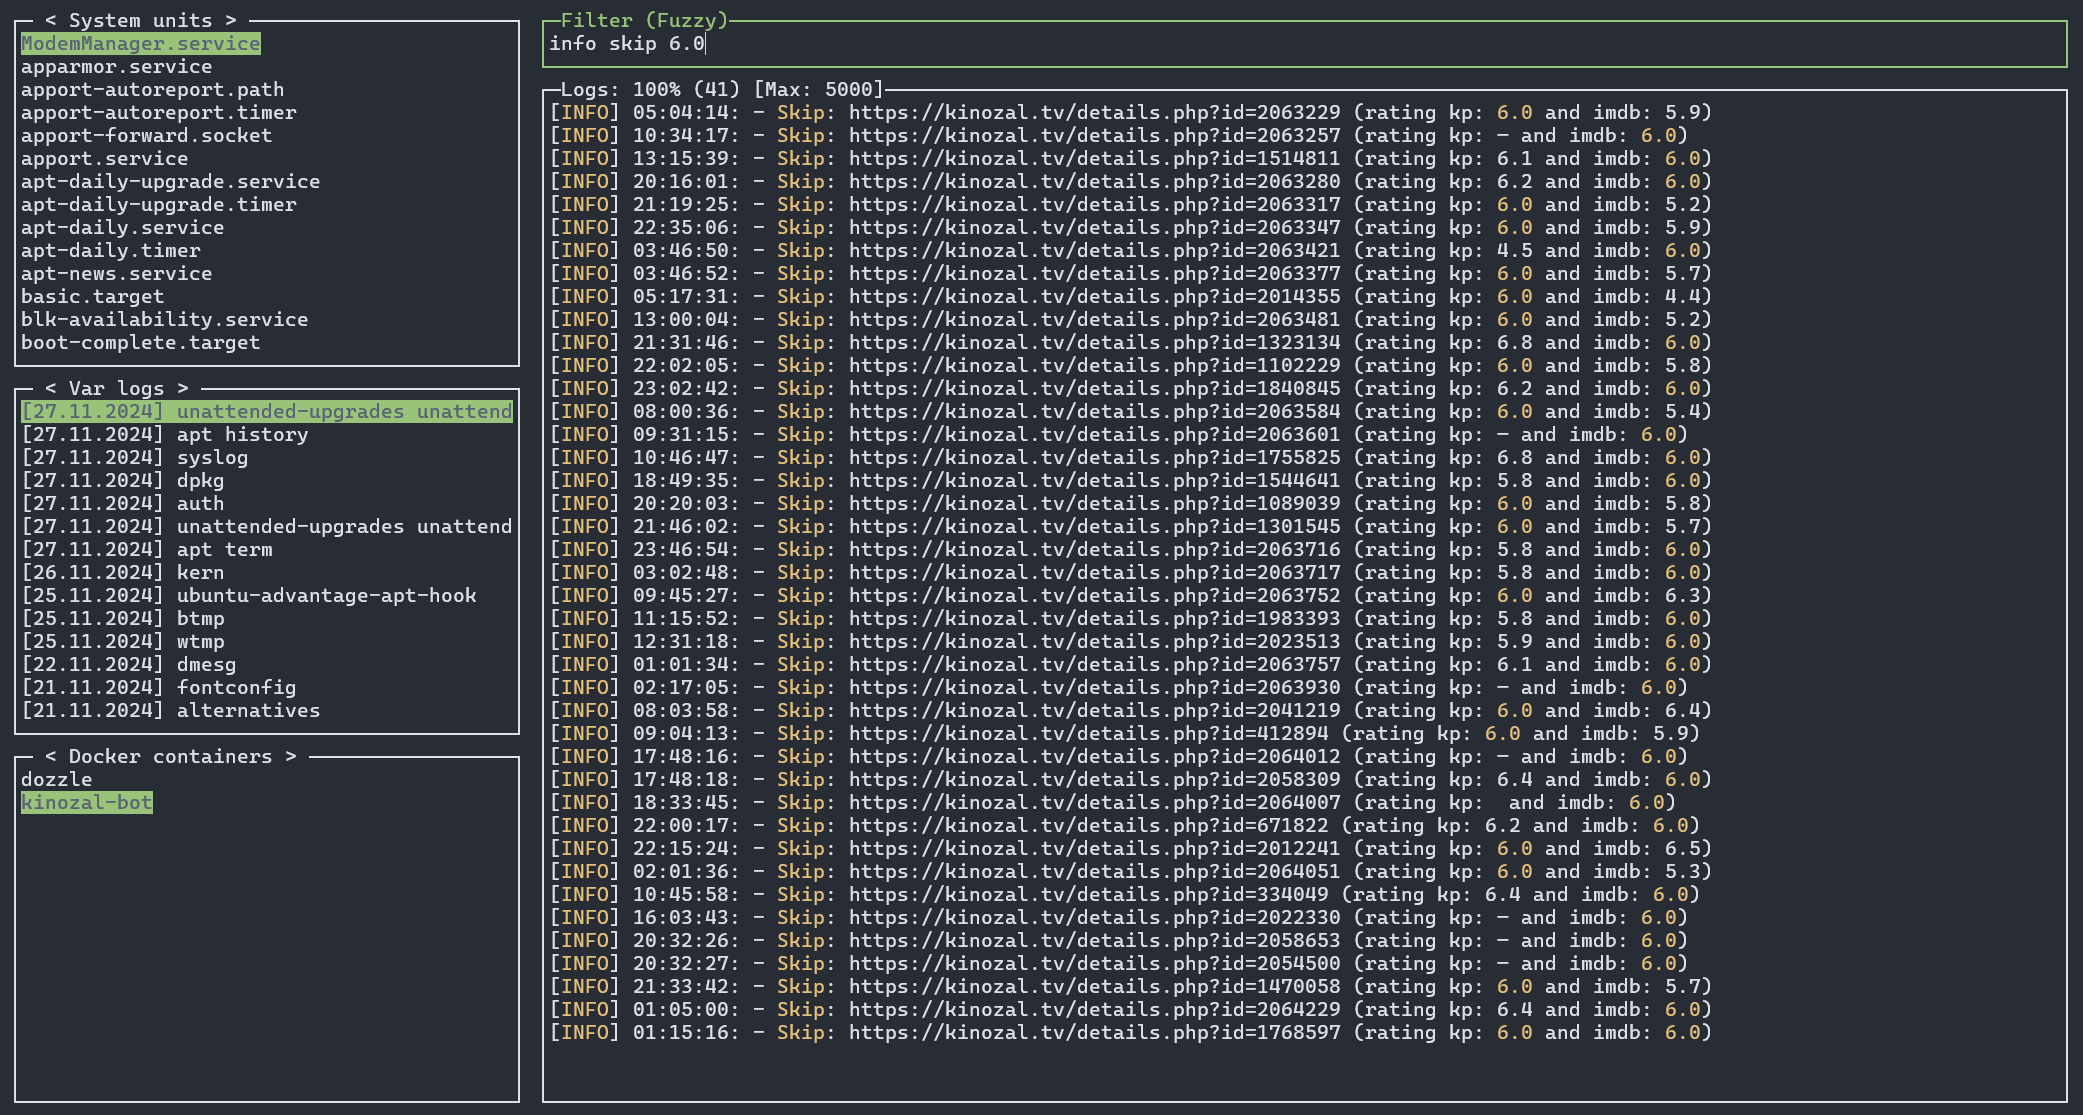
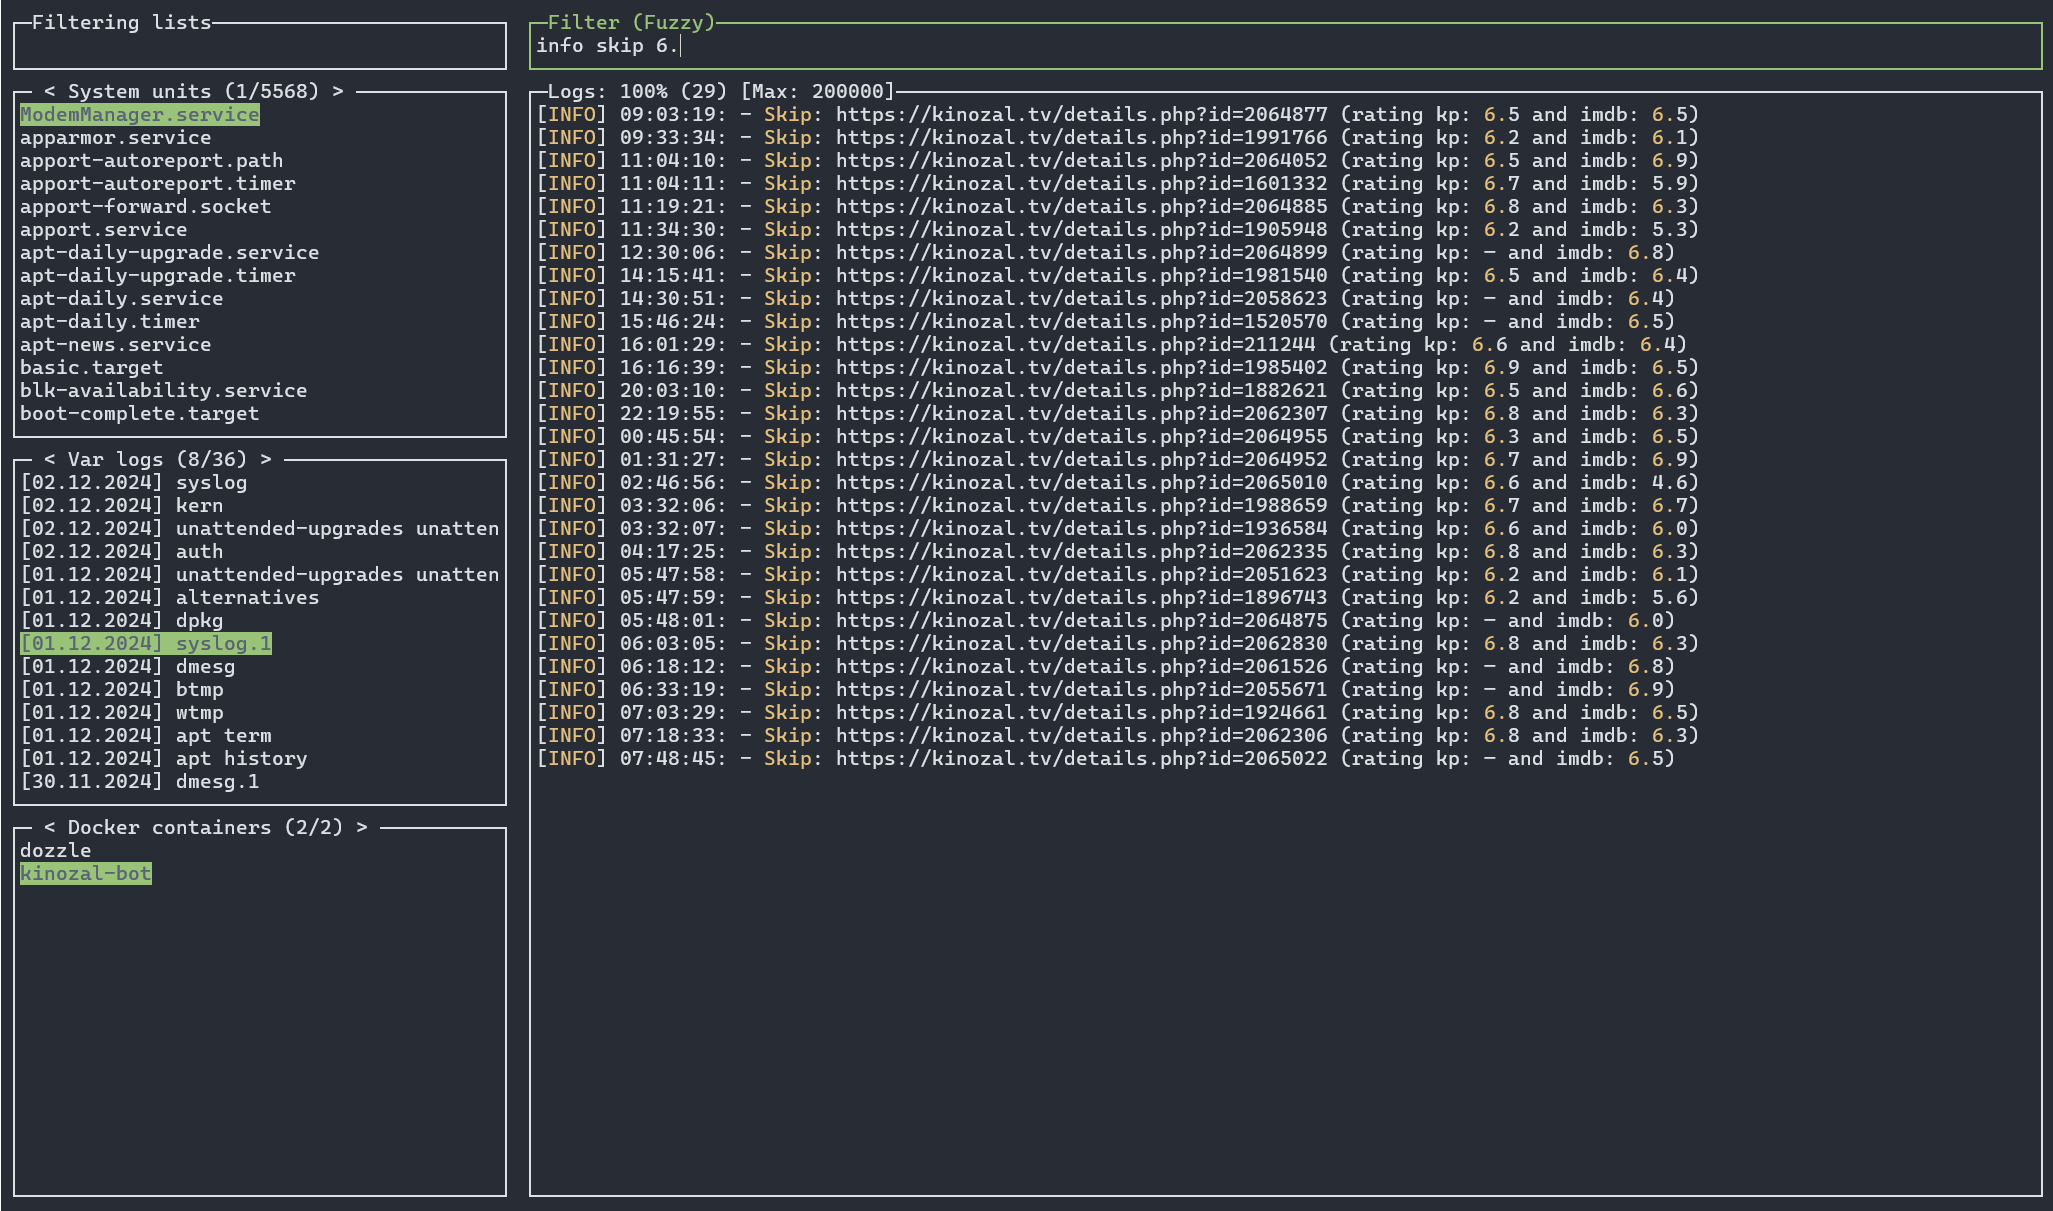
update img examples

Changed region(s): [[0.0, 0.0, 0.9976, 0.9453], [0.2182, 0.9758, 0.2806, 1.0], [0.9664, 0.9758, 0.9976, 1.0]]

diff --git a/README.md b/README.md
@@ -15,6 +15,8 @@ This tool is inspired by and with love for [lazydocker](https://github.com/jesse
 
 ![interface](/img/fuzzy.png)
 
+![interface](/img/regex.png)
+
 ## Functional
 
 - View all system and user units logs via `journalctl` (tool for reading logs using `journald` from [systemd](https://github.com/systemd/systemd)).
